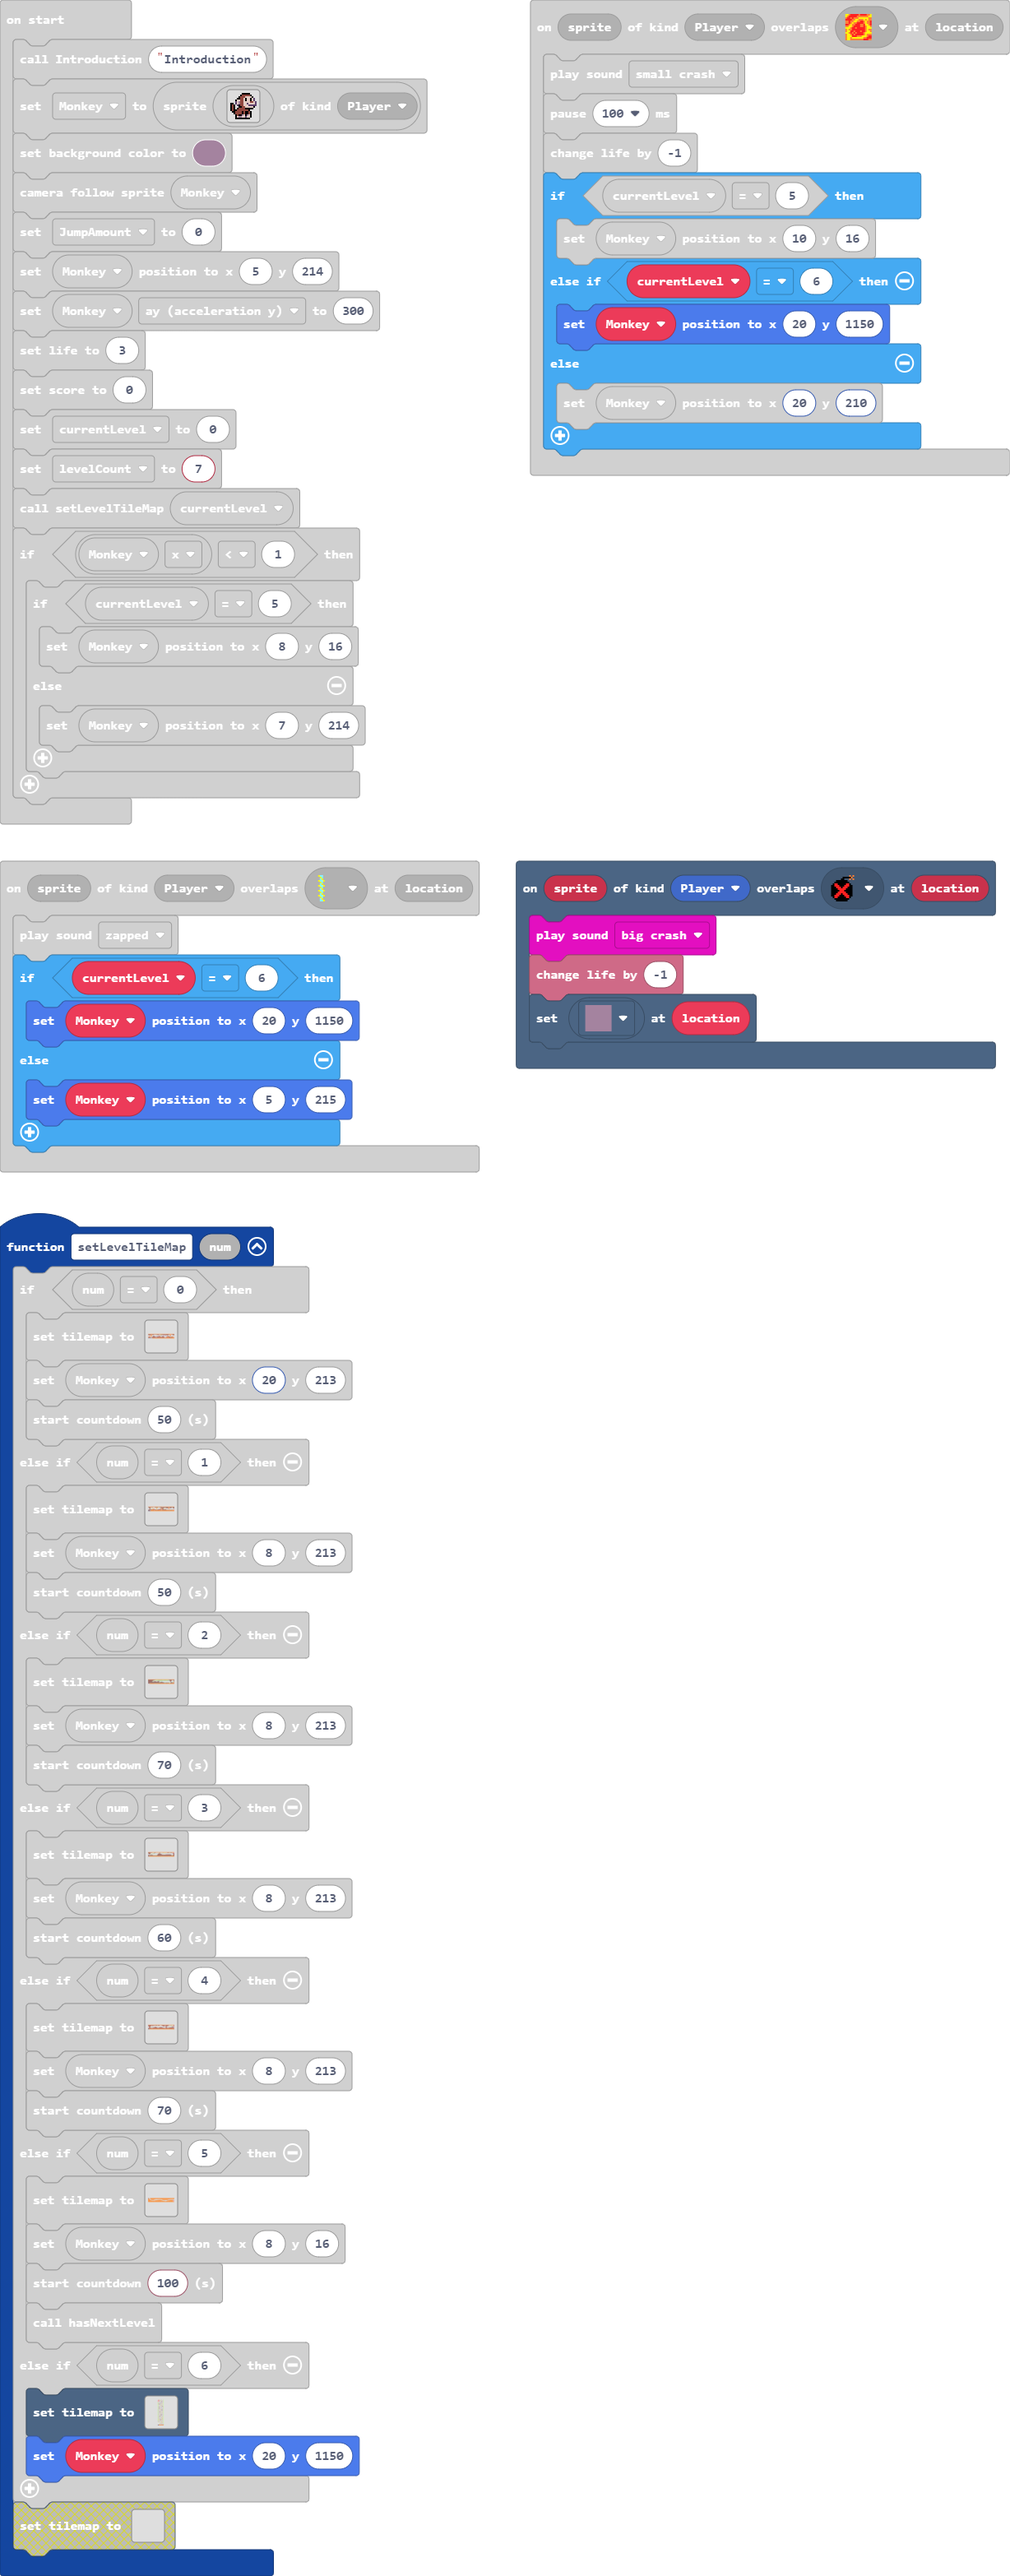
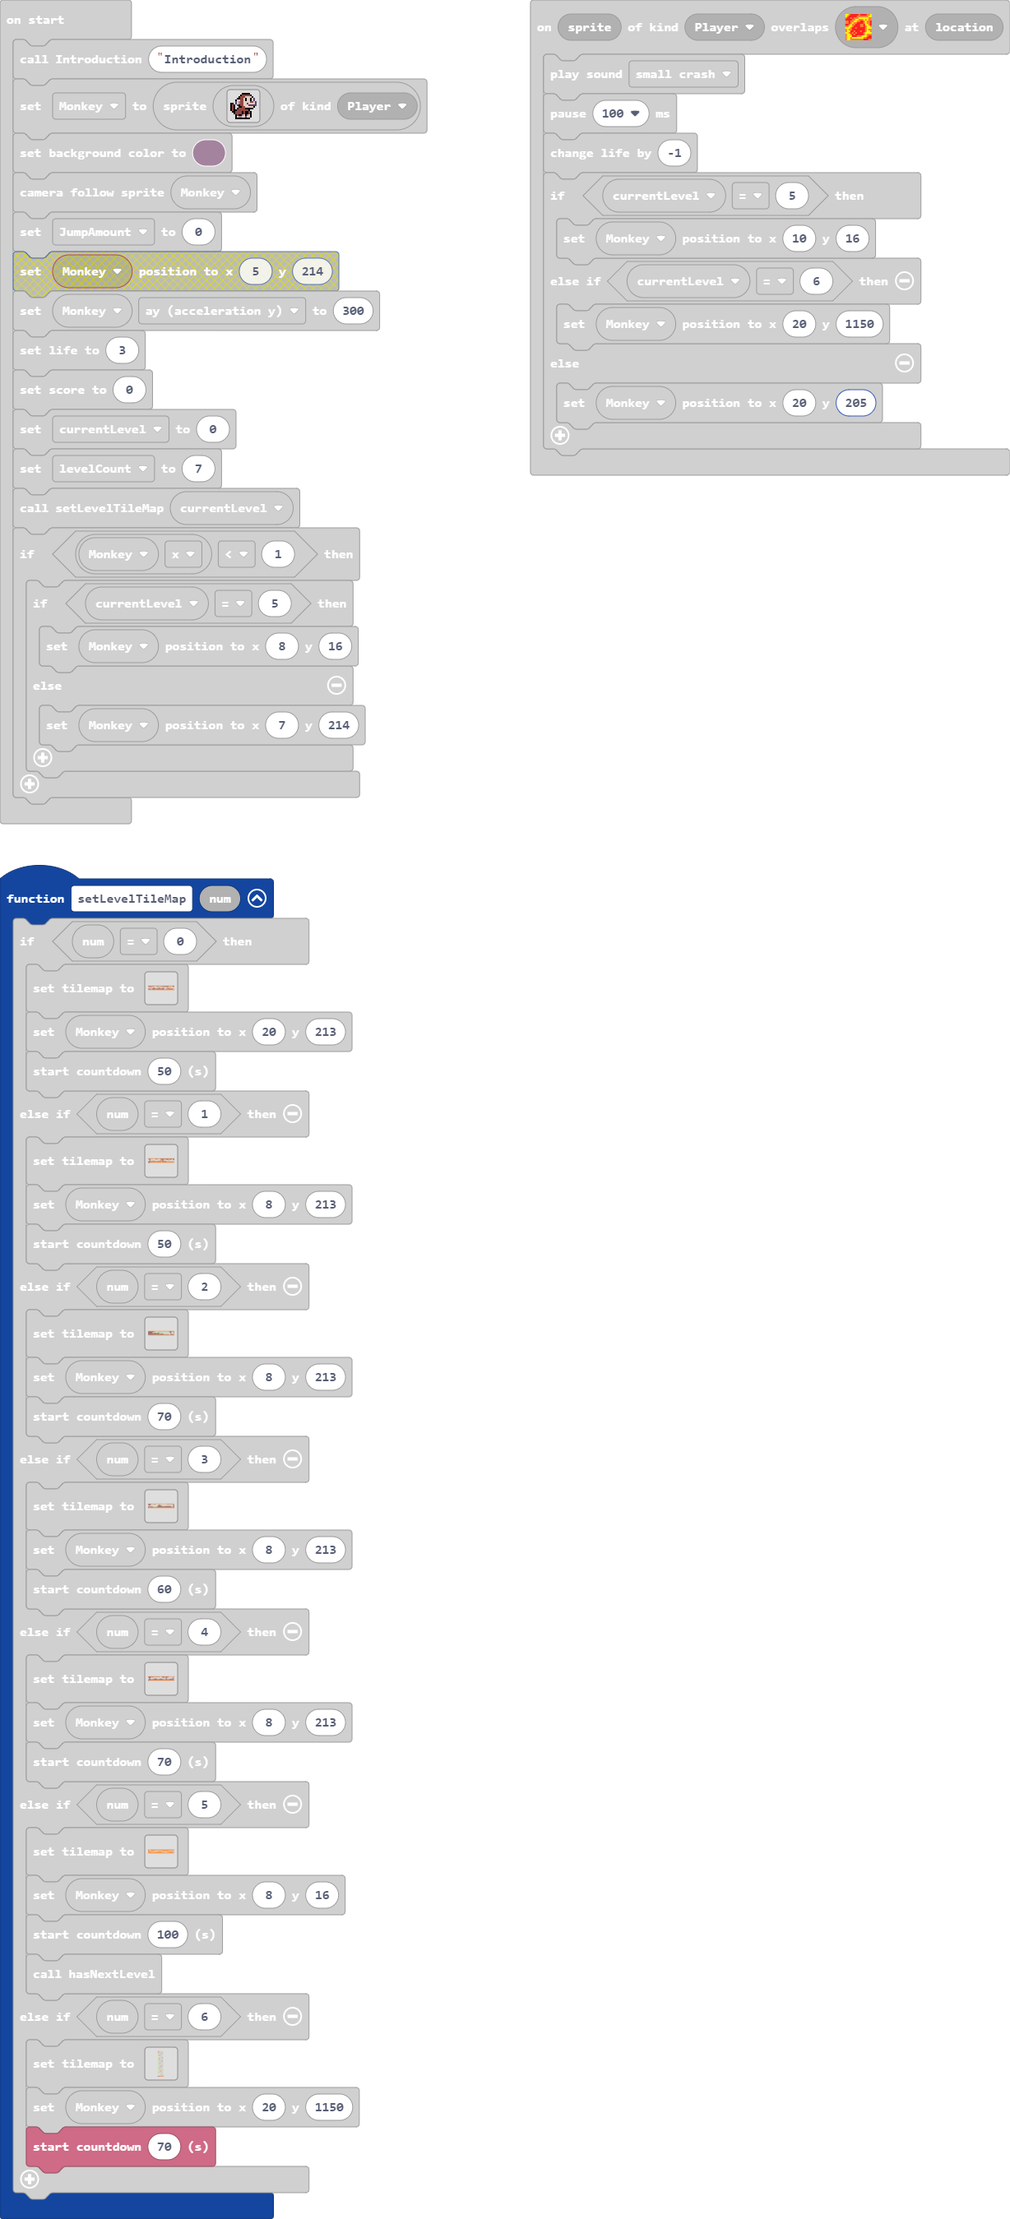
Update main.blocks, main.ts, tilemap.g.jres, tilemap.g.ts

Changed region(s): [[0.0, 0.0, 0.9902, 0.9959], [0.5261, 0.0, 1.0, 0.2179]]

diff --git a/tilemap.g.ts b/tilemap.g.ts
@@ -408,25 +408,6 @@ namespace myTiles {
 2222222222222222....................................................................................
 2222222222222222222222222222222222222222222222222222222222222222222222222222222222222222222222222222
 `, [myTiles.transparency16,sprites.dungeon.floorLightMoss,sprites.dungeon.stairLarge,sprites.dungeon.stairWest,sprites.dungeon.darkGroundNorthWest1,sprites.dungeon.hazardLava0,sprites.dungeon.purpleOuterNorth0,myTiles.tile6,myTiles.tile1,myTiles.tile3,myTiles.tile9,myTiles.tile12,myTiles.tile7,sprites.builtin.forestTiles0,myTiles.tile4,myTiles.tile18], TileScale.Sixteen);
-            case "level2":
[1 lines of base64/hex data omitted]
-....................................................................................................
-....................................................................................................
-.......................................................22...........................................
-.......................22.............................22....222.....................................
-......................22..........222....222....222.................................................
-....................................................................................................
-................222............................................222..................................
-..............2...............222...................................................................
-......................................222..........2.......222...2222...............................
-...........22.....................................22................................................
-....................2......22....................222..2222..........222.............................
-.........2.....................................2222222..................222.........................
-........22.................................................................2.2222.2222.2222.22222222
-.......222.............222..........................................................................
-2222222222222222222222222222222222222222222222222222222222222222222222222222222222222222222222222222
-2222222222222222222222222222222222222222222222222222222222222222222222222222222222222222222222222222
-`, [myTiles.transparency16,myTiles.tile1,myTiles.tile3,myTiles.tile7,sprites.dungeon.darkGroundNorthWest1,sprites.dungeon.floorLight0,sprites.dungeon.hazardLava0,myTiles.tile12,myTiles.tile9,myTiles.tile2,sprites.builtin.forestTiles0,myTiles.tile18], TileScale.Sixteen);
             case "level3":
[1 lines of base64/hex data omitted]
 .................................................................................2..................
@@ -575,6 +556,25 @@ namespace myTiles {
 ................
 ................
 `, [myTiles.transparency16,myTiles.tile11,myTiles.tile21], TileScale.Sixteen);
+            case "level28":
+            case "level28":return tiles.createTilemap(hex`1000100000000000000000000000000000000000000000000000000000000000000000000000000000000000000000000000000000000000000000000000000000000000000000000000000000000000000000000000000000000000000000000000000000000000000000000000000000000000000000000000000000000000000000000000000000000000000000000000000000000000000000000000000000000000000000000000000000000000000000000000000000000000000000000000000000000000000000000000000000000000000000000000000000000000000000000000000000000000000000000000000000000000000000000000000000000000`, img`
+. . . . . . . . . . . . . . . . 
+. . . . . . . . . . . . . . . . 
+. . . . . . . . . . . . . . . . 
+. . . . . . . . . . . . . . . . 
+. . . . . . . . . . . . . . . . 
+. . . . . . . . . . . . . . . . 
+. . . . . . . . . . . . . . . . 
+. . . . . . . . . . . . . . . . 
+. . . . . . . . . . . . . . . . 
+. . . . . . . . . . . . . . . . 
+. . . . . . . . . . . . . . . . 
+. . . . . . . . . . . . . . . . 
+. . . . . . . . . . . . . . . . 
+. . . . . . . . . . . . . . . . 
+. . . . . . . . . . . . . . . . 
+. . . . . . . . . . . . . . . . 
+`, [myTiles.transparency16], TileScale.Sixteen);
             case "level27":
[1 lines of base64/hex data omitted]
 ................
@@ -653,8 +653,8 @@ namespace myTiles {
 222.............
 222.............
 `, [myTiles.transparency16,myTiles.tile1,myTiles.tile3,myTiles.tile12,myTiles.tile9,myTiles.tile7,myTiles.tile11,myTiles.tile21,sprites.dungeon.darkGroundCenter,sprites.dungeon.hazardLava0,sprites.dungeon.floorDark0,sprites.castle.rock0], TileScale.Sixteen);
-            case "level28":
-            case "level28":return tiles.createTilemap(hex`1000100000000000000000000000000000000000000000000000000000000000000000000000000000000000000000000000000000000000000000000000000000000000000000000000000000000000000000000000000000000000000000000000000000000000000000000000000000000000000000000000000000000000000000000000000000000000000000000000000000000000000000000000000000000000000000000000000000000000000000000000000000000000000000000000000000000000000000000000000000000000000000000000000000000000000000000000000000000000000000000000000000000000000000000000000000000000`, img`
+            case "level29":
+            case "level29":return tiles.createTilemap(hex`1000100000000000000000000000000000000000000000000000000000000000000000000000000000000000000000000000000000000000000000000000000000000000000000000000000000000000000000000000000000000000000000000000000000000000000000000000000000000000000000000000000000000000000000000000000000000000000000000000000000000000000000000000000000000000000000000000000000000000000000000000000000000000000000000000000000000000000000000000000000000000000000000000000000000000000000000000000000000000000000000000000000000000000000000000000000000000`, img`
 . . . . . . . . . . . . . . . . 
 . . . . . . . . . . . . . . . . 
 . . . . . . . . . . . . . . . . 
@@ -672,6 +672,139 @@ namespace myTiles {
 . . . . . . . . . . . . . . . . 
 . . . . . . . . . . . . . . . . 
 `, [myTiles.transparency16], TileScale.Sixteen);
+            case "level30":
+            case "level30":return tiles.createTilemap(hex`1000100000000000000000000000000000000000000000000000000000000000000000000000000000000000000000000000000000000000000000000000000000000000000000000000000000000000000000000000000000000000000000000000000000000000000000000000000000000000000000000000000000000000000000000000000000000000000000000000000000000000000000000000000000000000000000000000000000000000000000000000000000000000000000000000000000000000000000000000000000000000000000000000000000000000000000000000000000000000000000000000000000000000000000000000000000000000`, img`
+. . . . . . . . . . . . . . . . 
+. . . . . . . . . . . . . . . . 
+. . . . . . . . . . . . . . . . 
+. . . . . . . . . . . . . . . . 
+. . . . . . . . . . . . . . . . 
+. . . . . . . . . . . . . . . . 
+. . . . . . . . . . . . . . . . 
+. . . . . . . . . . . . . . . . 
+. . . . . . . . . . . . . . . . 
+. . . . . . . . . . . . . . . . 
+. . . . . . . . . . . . . . . . 
+. . . . . . . . . . . . . . . . 
+. . . . . . . . . . . . . . . . 
+. . . . . . . . . . . . . . . . 
+. . . . . . . . . . . . . . . . 
+. . . . . . . . . . . . . . . . 
+`, [myTiles.transparency16], TileScale.Sixteen);
+            case "level31":
+            case "level31":return tiles.createTilemap(hex`1000100000000000000000000000000000000000000000000000000000000000000000000000000000000000000000000000000000000000000000000000000000000000000000000000000000000000000000000000000000000000000000000000000000000000000000000000000000000000000000000000000000000000000000000000000000000000000000000000000000000000000000000000000000000000000000000000000000000000000000000000000000000000000000000000000000000000000000000000000000000000000000000000000000000000000000000000000000000000000000000000000000000000000000000000000000000000`, img`
+. . . . . . . . . . . . . . . . 
+. . . . . . . . . . . . . . . . 
+. . . . . . . . . . . . . . . . 
+. . . . . . . . . . . . . . . . 
+. . . . . . . . . . . . . . . . 
+. . . . . . . . . . . . . . . . 
+. . . . . . . . . . . . . . . . 
+. . . . . . . . . . . . . . . . 
+. . . . . . . . . . . . . . . . 
+. . . . . . . . . . . . . . . . 
+. . . . . . . . . . . . . . . . 
+. . . . . . . . . . . . . . . . 
+. . . . . . . . . . . . . . . . 
+. . . . . . . . . . . . . . . . 
+. . . . . . . . . . . . . . . . 
+. . . . . . . . . . . . . . . . 
+`, [myTiles.transparency16], TileScale.Sixteen);
+            case "level32":
+            case "level32":return tiles.createTilemap(hex`1000100000000000000000000000000000000000000000000000000000000000000000000000000000000000000000000000000000000000000000000000000000000000000000000000000000000000000000000000000000000000000000000000000000000000000000000000000000000000000000000000000000000000000000000000000000000000000000000000000000000000000000000000000000000000000000000000000000000000000000000000000000000000000000000000000000000000000000000000000000000000000000000000000000000000000000000000000000000000000000000000000000000000000000000000000000000000`, img`
+. . . . . . . . . . . . . . . . 
+. . . . . . . . . . . . . . . . 
+. . . . . . . . . . . . . . . . 
+. . . . . . . . . . . . . . . . 
+. . . . . . . . . . . . . . . . 
+. . . . . . . . . . . . . . . . 
+. . . . . . . . . . . . . . . . 
+. . . . . . . . . . . . . . . . 
+. . . . . . . . . . . . . . . . 
+. . . . . . . . . . . . . . . . 
+. . . . . . . . . . . . . . . . 
+. . . . . . . . . . . . . . . . 
+. . . . . . . . . . . . . . . . 
+. . . . . . . . . . . . . . . . 
+. . . . . . . . . . . . . . . . 
+. . . . . . . . . . . . . . . . 
+`, [myTiles.transparency16], TileScale.Sixteen);
+            case "level33":
+            case "level33":return tiles.createTilemap(hex`1000100000000000000000000000000000000000000000000000000000000000000000000000000000000000000000000000000000000000000000000000000000000000000000000000000000000000000000000000000000000000000000000000000000000000000000000000000000000000000000000000000000000000000000000000000000000000000000000000000000000000000000000000000000000000000000000000000000000000000000000000000000000000000000000000000000000000000000000000000000000000000000000000000000000000000000000000000000000000000000000000000000000000000000000000000000000000`, img`
+. . . . . . . . . . . . . . . . 
+. . . . . . . . . . . . . . . . 
+. . . . . . . . . . . . . . . . 
+. . . . . . . . . . . . . . . . 
+. . . . . . . . . . . . . . . . 
+. . . . . . . . . . . . . . . . 
+. . . . . . . . . . . . . . . . 
+. . . . . . . . . . . . . . . . 
+. . . . . . . . . . . . . . . . 
+. . . . . . . . . . . . . . . . 
+. . . . . . . . . . . . . . . . 
+. . . . . . . . . . . . . . . . 
+. . . . . . . . . . . . . . . . 
+. . . . . . . . . . . . . . . . 
+. . . . . . . . . . . . . . . . 
+. . . . . . . . . . . . . . . . 
+`, [myTiles.transparency16], TileScale.Sixteen);
+            case "level34":
+            case "level34":return tiles.createTilemap(hex`1000100000000000000000000000000000000000000000000000000000000000000000000000000000000000000000000000000000000000000000000000000000000000000000000000000000000000000000000000000000000000000000000000000000000000000000000000000000000000000000000000000000000000000000000000000000000000000000000000000000000000000000000000000000000000000000000000000000000000000000000000000000000000000000000000000000000000000000000000000000000000000000000000000000000000000000000000000000000000000000000000000000000000000000000000000000000000`, img`
+. . . . . . . . . . . . . . . . 
+. . . . . . . . . . . . . . . . 
+. . . . . . . . . . . . . . . . 
+. . . . . . . . . . . . . . . . 
+. . . . . . . . . . . . . . . . 
+. . . . . . . . . . . . . . . . 
+. . . . . . . . . . . . . . . . 
+. . . . . . . . . . . . . . . . 
+. . . . . . . . . . . . . . . . 
+. . . . . . . . . . . . . . . . 
+. . . . . . . . . . . . . . . . 
+. . . . . . . . . . . . . . . . 
+. . . . . . . . . . . . . . . . 
+. . . . . . . . . . . . . . . . 
+. . . . . . . . . . . . . . . . 
+. . . . . . . . . . . . . . . . 
+`, [myTiles.transparency16], TileScale.Sixteen);
+            case "level35":
+            case "level35":return tiles.createTilemap(hex`1000100000000000000000000000000000000000000000000000000000000000000000000000000000000000000000000000000000000000000000000000000000000000000000000000000000000000000000000000000000000000000000000000000000000000000000000000000000000000000000000000000000000000000000000000000000000000000000000000000000000000000000000000000000000000000000000000000000000000000000000000000000000000000000000000000000000000000000000000000000000000000000000000000000000000000000000000000000000000000000000000000000000000000000000000000000000000`, img`
+. . . . . . . . . . . . . . . . 
+. . . . . . . . . . . . . . . . 
+. . . . . . . . . . . . . . . . 
+. . . . . . . . . . . . . . . . 
+. . . . . . . . . . . . . . . . 
+. . . . . . . . . . . . . . . . 
+. . . . . . . . . . . . . . . . 
+. . . . . . . . . . . . . . . . 
+. . . . . . . . . . . . . . . . 
+. . . . . . . . . . . . . . . . 
+. . . . . . . . . . . . . . . . 
+. . . . . . . . . . . . . . . . 
+. . . . . . . . . . . . . . . . 
+. . . . . . . . . . . . . . . . 
+. . . . . . . . . . . . . . . . 
+. . . . . . . . . . . . . . . . 
+`, [myTiles.transparency16], TileScale.Sixteen);
+            case "level2":
[1 lines of base64/hex data omitted]
+....................................................................................................
+....................................................................................................
+....................................................................................................
+.......................22.............................22....222.....................................
+......................22..........222....222....222.................................................
+....................................................................................................
+................222............................................222..................................
+..............2...............222...................................................................
+......................................222..........2.......222...2222...............................
+...........22.....................................22................................................
+....................2......22....................222..2222..........222.............................
+.........2.....................................2222222..................222.........................
+........22.................................................................2.2222.2222.2222.22222222
+.......222.............222..........................................................................
+2222222222222222222222222222222222222222222222222222222222222222222222222222222222222222222222222222
+2222222222222222222222222222222222222222222222222222222222222222222222222222222222222222222222222222
+`, [myTiles.transparency16,myTiles.tile1,myTiles.tile3,myTiles.tile7,sprites.dungeon.darkGroundNorthWest1,sprites.dungeon.floorLight0,sprites.dungeon.hazardLava0,myTiles.tile12,myTiles.tile9,myTiles.tile2,sprites.builtin.forestTiles0,myTiles.tile18], TileScale.Sixteen);
         }
         return null;
     })

diff --git a/main.ts b/main.ts
@@ -42,6 +42,7 @@ function setLevelTileMap (num: number) {
     } else if (num == 6) {
         tiles.setTilemap(tilemap`level27`)
         Monkey.setPosition(20, 1150)
+        info.startCountdown(70)
     }
 }
 controller.A.onEvent(ControllerButtonEvent.Pressed, function () {
@@ -59,7 +60,7 @@ scene.onOverlapTile(SpriteKind.Player, sprites.dungeon.hazardLava0, function (sp
     } else if (currentLevel == 6) {
         Monkey.setPosition(20, 1150)
     } else {
-        Monkey.setPosition(20, 210)
+        Monkey.setPosition(20, 205)
     }
 })
 scene.onOverlapTile(SpriteKind.Player, assets.tile`myTile12`, function (sprite, location) {
@@ -131,7 +132,6 @@ Monkey = sprites.create(img`
 scene.setBackgroundColor(11)
 scene.cameraFollowSprite(Monkey)
 JumpAmount = 0
-Monkey.setPosition(5, 214)
 Monkey.ay = 300
 info.setLife(3)
 info.setScore(0)
